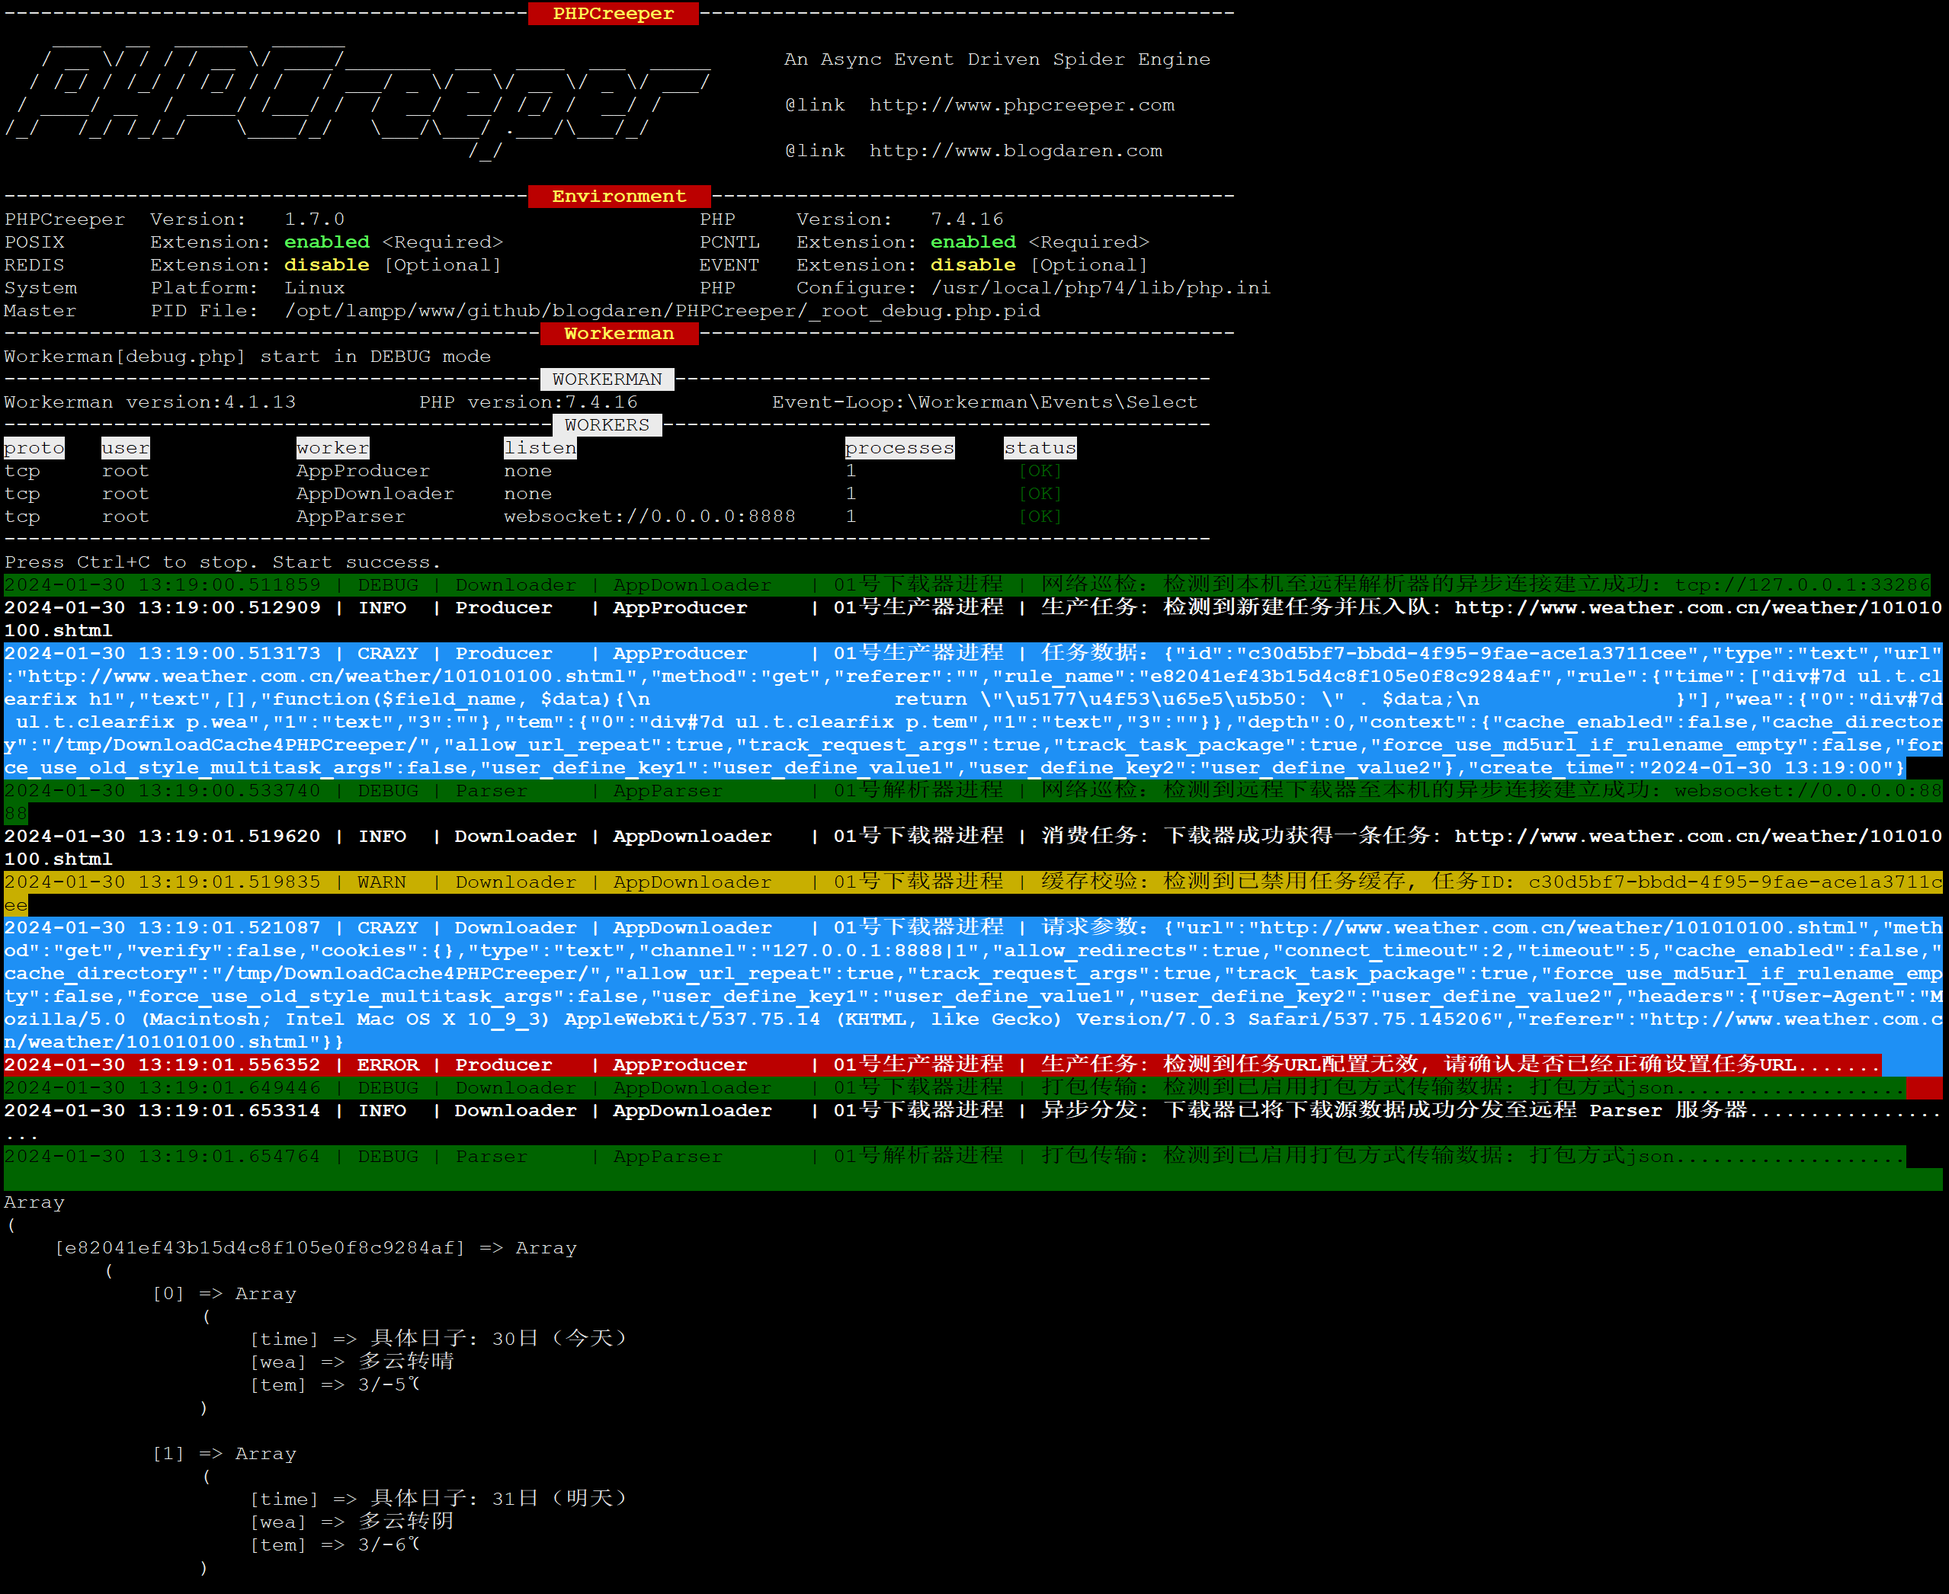
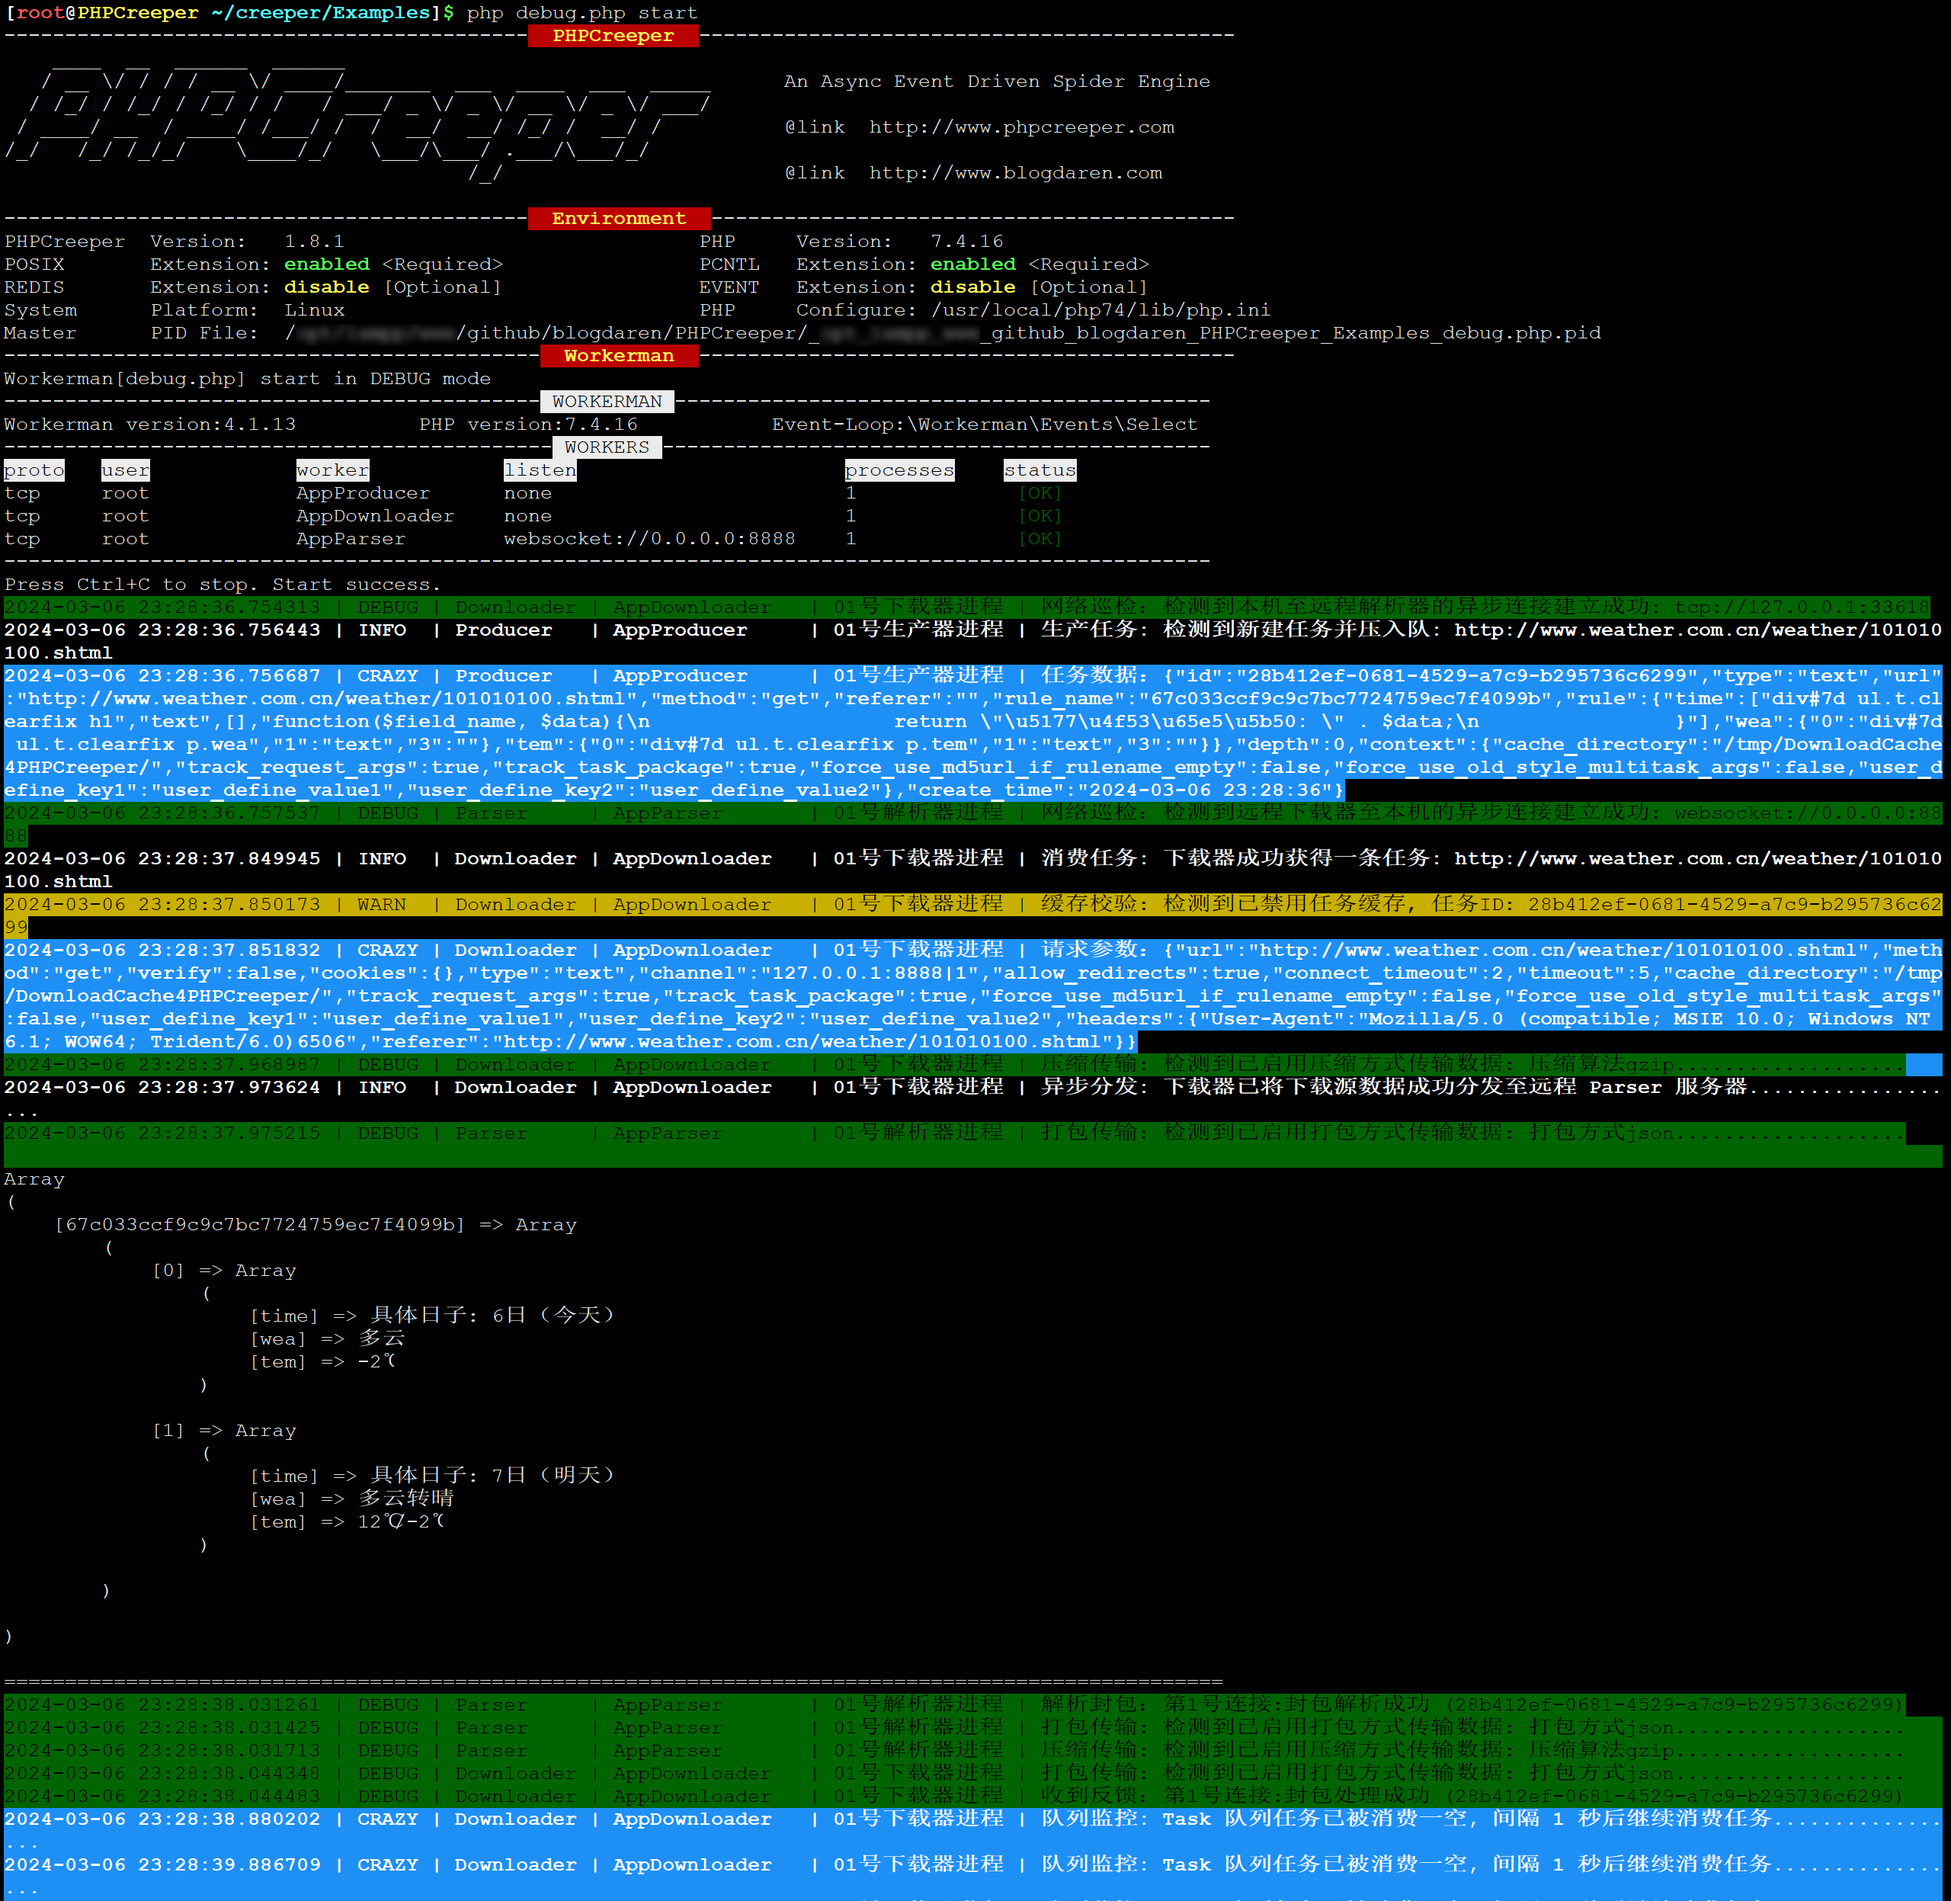
limit the default max size of file to download and add new user callback API with `onParserConnect`

diff --git a/src/Downloader.php b/src/Downloader.php
@@ -718,6 +718,18 @@ class Downloader extends PHPCreeper
                 method_exists($this->httpClient, 'setWorker') && $this->httpClient->setWorker($this);
             }
 
+            //check whether large files are to be downloaded and the size exceeds the default max file size or not
+            $content_length = ceil($this->prefetchRemoteFileSizeToBeDownloaded($url, $args) / 1024 / 1024);
+            $defaut_max_file_size = ceil(PHPCreeper::getDefaultMaxFileSizeToDownload() / 1024 / 1024);
+            if($content_length > $defaut_max_file_size)
+            {
+                $extra = [
+                    'file_size'             => $content_length,
+                    'default_max_file_size' => $defaut_max_file_size,
+                ];
+                return Tool::throwback('-202', $this->langConfig['downloader_download_filesize_exceed'], $extra);
+            }
+
             $code = $this->httpClient->request($method, $url, $args)->getResponseStatusCode();
 
             if(in_array($code, [301, 302])){
@@ -755,6 +767,36 @@ class Downloader extends PHPCreeper
             return Tool::throwback('-205', $this->langConfig['http_transfer_exception'], $extra);
         }
     }
+
+    /**
+     * @brief    prefetch remote file size to be downloaded
+     *
+     * @param    string  $url
+     * @param    array   $args
+     *
+     * @return   int
+     */
+    public function prefetchRemoteFileSizeToBeDownloaded($url, $args)
+    {
+        $args['allow_redirects'] = true;
+        $args['headers']['Cache-Control'] = 'no-cache';
+        $code = $this->httpClient->request('head', $url, $args)->getResponseStatusCode();
+
+        if(in_array($code, [301, 302])){
+            $client = $this->httpClient->request($method, $url, $args);
+            $code = $this->httpClient->getResponseStatusCode();
+            $headers = 200 == $code ? $this->httpClient->getHeaders(): [];
+        }elseif(200 == $code){
+            $headers = $this->httpClient->getHeaders();
+        }else{
+            $headers = [];
+        }
+
+        $len = $headers['Content-Length'][0] ?? 0;
+        
+        return $len;
+    }
+
 
     /**
      * @brief    rebuild task arguments   

diff --git a/src/Kernel/PHPCreeper.php b/src/Kernel/PHPCreeper.php
@@ -39,7 +39,7 @@ class PHPCreeper extends Worker
      *
      * @var string
      */
-    public const CURRENT_VERSION = '1.8.0';
+    public const CURRENT_VERSION = '1.8.1';
 
     /**
      * engine name
@@ -285,6 +285,15 @@ class PHPCreeper extends Worker
     static private $_defaultTimezone = 'Asia/Shanghai';
 
     /**
+     * default max file size to download: 
+     *
+     * 20(MB) = 20971520(Byte) = 20 * (1 << 20)
+     *
+     * @var int
+     */
+    static private $_defaultMaxFileSizeToDownload = 20971520;
+
+    /**
      * user callbacks
      *
      * @var array
@@ -304,6 +313,7 @@ class PHPCreeper extends Worker
         'onParserStart'        => null,
         'onParserStop'         => null,
         'onParserReload'       => null,
+        'onParserConnect'      => null,
         'onParserMessage'      => null,
         'onParserFindUrl'      => null,
         'onParserExtractField' => null,
@@ -1703,6 +1713,33 @@ EOT;
         }
 
         date_default_timezone_set(self::$_defaultTimezone);
+    }
+
+    /**
+     * @brief    set default max file size to download
+     *
+     * @param    int    $size
+     *
+     * @return   void
+     */
+    static public function setDefaultMaxFileSizeToDownload($size)
+    {
+        if(!Tool::checkIsInt($size))
+        {
+            return;
+        }
+
+        self::$_defaultMaxFileSizeToDownload = $size;
+    }
+
+    /**
+     * @brief    get default max file size to download
+     *
+     * @return   int
+     */
+    static public function getDefaultMaxFileSizeToDownload()
+    {
+        return self::$_defaultMaxFileSizeToDownload;
     }
 
     /**

diff --git a/src/Kernel/Language/zh.php b/src/Kernel/Language/zh.php
@@ -38,6 +38,7 @@ return [
     'downloader_got_replay_null'    => "收到反馈: 检测到解析器响应为空：原因很可能是下载器和解析器socket通信协议设定不一致.",
     'downloader_lost_connections'   => "网络巡检：检测到下载器获取不到可用的任务连接对象.............................",
     'downloader_lost_channel'       => "网络巡检：检测到下载器获取不到可用的任务连接通道.............................",
+    'downloader_download_filesize_exceed' => "下载任务：预检到要下载的文件大小(%file_size%MB)超过了预设的最大值(%default_max_file_size%MB), 丢弃任务.....",
     'http_transfer_exception'       => "请求异常: %exception_msg% (exception_code: %exception_code%) (task_url: %url%)",
     'http_transfer_compress'        => "压缩传输: 检测到已启用压缩方式传输数据: 压缩算法%algorithm%...................",
     'http_assemble_method'          => "打包传输: 检测到已启用打包方式传输数据: 打包方式%assemble_method%...................",

diff --git a/src/Parser.php b/src/Parser.php
@@ -33,7 +33,7 @@ class Parser extends PHPCreeper
     public $task = null;
 
     /**
-     * the send buffer size of connection from downloader to parser
+     * the send buffer size of connection from parser to downloader 
      *
      * @var int
      */
@@ -45,7 +45,7 @@ class Parser extends PHPCreeper
      *
      * @var int
      */
-    const MESSAGE_ALIVE_TIMEOUT = 300;
+    public const MESSAGE_ALIVE_TIMEOUT = 300;
 
     /**
      * @brief    __construct    
@@ -127,8 +127,12 @@ class Parser extends PHPCreeper
         ]));
 
         $connection->maxSendBufferSize = $this->getSendBufferSize();
-
+        $connection->maxPackageSize = PHPCreeper::getDefaultMaxFileSizeToDownload();
         empty($connection->lastMessageAliveTime) && $connection->lastMessageAliveTime = time();
+
+        //trigger user callback
+        $this->triggerUserCallback('onParserConnect', $connection);
+
         $connection->timerId = Timer::add(1, function()use($connection){
             if(time() - $connection->lastMessageAliveTime > self::MESSAGE_ALIVE_TIMEOUT)
             {

diff --git a/src/Kernel/Language/en.php b/src/Kernel/Language/en.php
@@ -37,6 +37,7 @@ return [
     'downloader_got_replay_null'    => "Receive Feedback: detect that the parser response is empty, it seems to be a mismatch between the socket protocol settings of the Downloader and Parser.",
     'downloader_lost_connections'   => "Network Inspect: detect that the downloader does not get the task connection object available.",
     'downloader_lost_channel'       => "Network Inspect: detect that the downloader does not get the task connection channel available.",
+    'downloader_download_filesize_exceed'  => "Task Download: detect that the file size to be downloaded (%file size%MB) exceeds the preset maximum (%default max file size%MB), discard task.",
     'http_transfer_exception'       => "Request Anomaly: %exception_msg% (exception_code: %exception_code%) (task_url: %url%)",
     'http_transfer_compress'        => "Compress Transfer: detect that the compression algorithm is enabled: %algorithm%",
     'http_assemble_method'          => "Assemble Package: detect that the assemble package method is enabled: %assemble_method%",

diff --git a/src/Kernel/Task.php b/src/Kernel/Task.php
@@ -407,6 +407,8 @@ class Task
      */
     public function createMultiTask($task = [])
     {
+        if(empty($task)) return false;
+
         //backward compatible with API version less than( < v1.6.0)
         if(isset($task['context']['force_use_old_style_multitask_args']) 
             && true === $task['context']['force_use_old_style_multitask_args'])

diff --git a/README.md b/README.md
@@ -28,9 +28,9 @@ The chinese document is relatively complete, and the english document will be ke
 * 爬山虎中文官方网站：[http://www.phpcreeper.com](http://www.phpcreeper.com)
 * 中文开发文档主节点：[http://www.blogdaren.com/docs/](http://www.blogadren.com/docs/)
 * 中文开发文档备节点：[http://www.phpcreeper.com/docs/](http://www.phpcreeper.com/docs/)
-* **爬山虎是一个开源自由项目，欢迎小星星Star支持，让更多的人发现、使用并受益。**
-* **爬山虎是一个佛系随缘项目，业余应用应该没有问题，但生产环境表现未知请慎用。**
-* **爬山虎源码根目录下有一个`Examples/start.php`样例脚本，开发之前建议先看它而后运行它。**
+* **爬山虎是一个开源自由项目，欢迎您小星星Star支持，让更多的人发现、使用并从中获得受益。**
+* **爬山虎是一个佛系随缘项目，随机维护，业余应用应该没有问题，但生产环境表现未知请慎用。**
+* **爬山虎源码根目录下有一个`Examples/start.php`样例脚本，开发之前建议先阅读它而后运行它。**
 
 ## 技术交流
 * 下方绿色二维码为VX交流群：&nbsp;phpcreeper 【群主热心、进微信群需先加此专属微信并备注来意或备注：爬山虎】  
